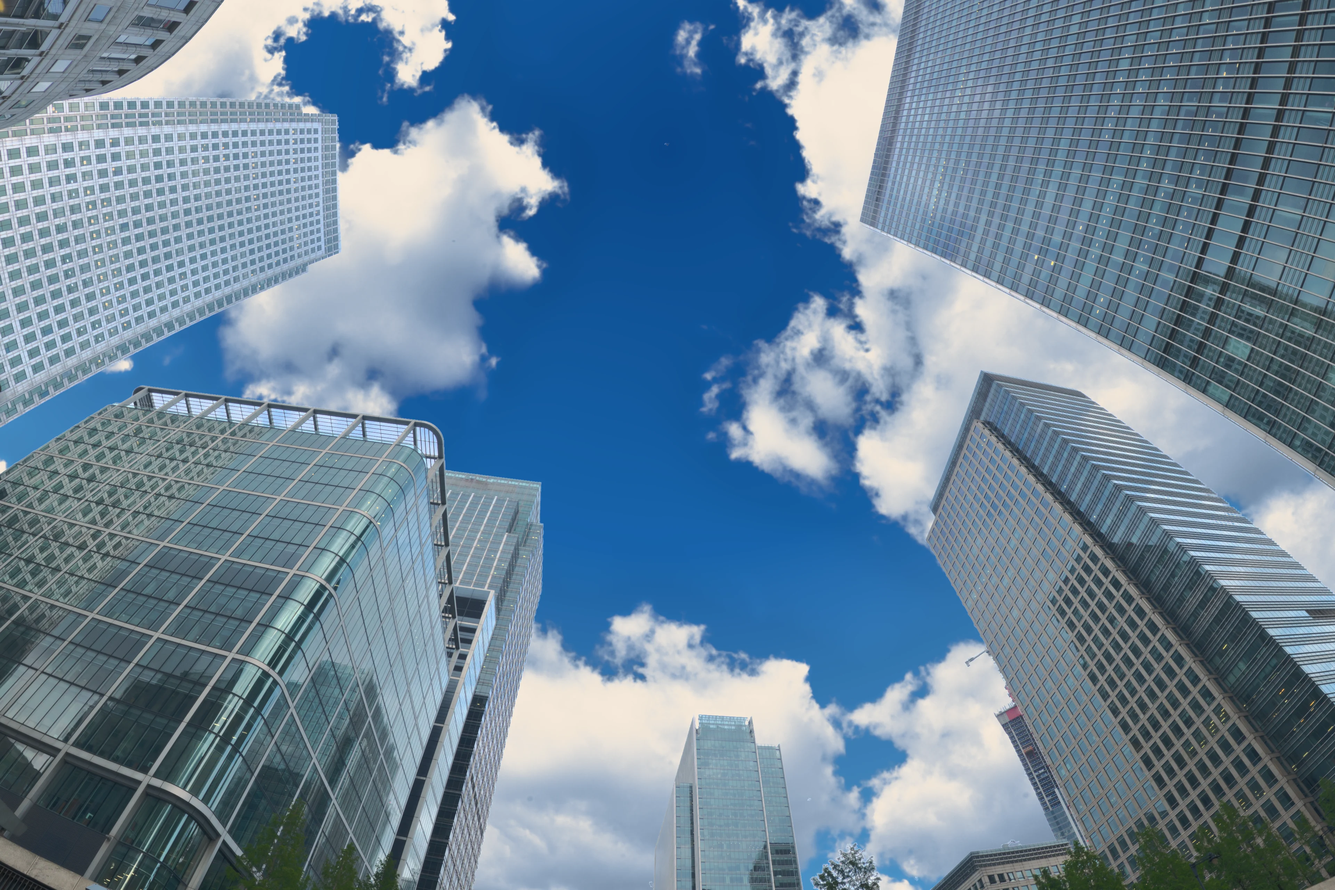
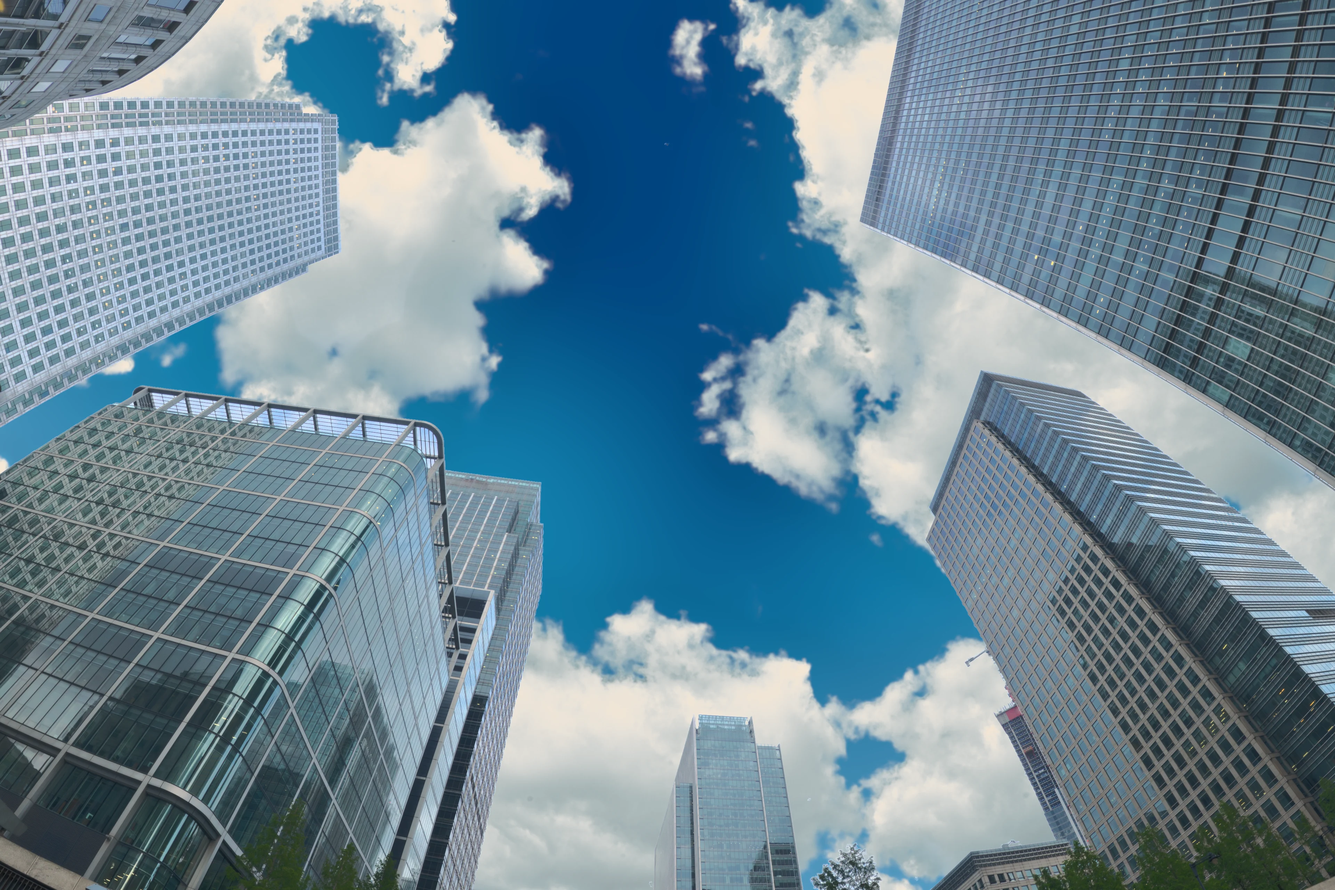
Lab: climb fog round 1
Claude-Session: https://claude.ai/code/session_01RqENhngNCzDFmJWDZueXGV

diff --git a/src/app/lab/fog/fogEngine.js b/src/app/lab/fog/fogEngine.js
@@ -6,8 +6,9 @@ import { createStage, clamp } from "../_kit/stage";
 //
 // The plate is two Poly Haven HDRIs (CC0, both from their 16k captures) rendered
 // at 3840 through the same stereographic rays: the towers from canary_wharf, the
-// sky from docklands_01, graded to a cobalt zenith with cumulus split-toned
-// warm-neutral on the sunlit tops and skylight blue in the folds, unclipped. Depth Anything V2 gives
+// sky from docklands_01: a radial cobalt, pale cyan where it meets the towers,
+// under cumulus unmixed from the capture's own blue and split-toned cyan-grey in
+// the folds to warm-neutral on the sunlit tops, unclipped. Depth Anything V2 gives
 // relative inverse depth, edge-snapped and turned into metres offline (the
 // glass corner ~30 m, the far tower down the street ~380 m); the sky sits at
 // the far end through its matte. tools/depth/bakes/fog/ builds both.
@@ -33,12 +34,22 @@ const PLATE_W = 3840; // plate.webp width; the forward-scatter blur is tuned in 
 const D_MIN = 10;
 const D_MAX = 4000;
 const HS = 500; // haze scale height, metres
-const HS_SKY = 200; // the column the sky is seen through
+const HS_SKY = 140; // the column the sky is seen through
 const V_CLEAR = 50000; // visibility at fog 0, metres
 const V_THICK = 200; // visibility at fog 1
+// The drag moves the transmittance of a 130 m sight line evenly, not log V:
+// air's response to log V is an S that spends half the range on nothing and
+// the last third on everything. Over this frame's distances an even step in
+// that transmittance is an even step in the haze you see, and the first half
+// of the gesture is the far towers turning blue.
+const D_REF = 130;
+const T_CLEAR = Math.exp((-3.912 * D_REF) / V_CLEAR);
+const T_THICK = Math.exp((-3.912 * D_REF) / V_THICK);
+const visibility = (f) => (-3.912 * D_REF) / Math.log(T_CLEAR + (T_THICK - T_CLEAR) * f);
 const K_RGB = [0.82, 1.0, 1.24];
-const REST = 0.92; // arrival: a white-blue field of haze
-const ROLL = 0.5; // it clears to here
+const K_SKY = [1.04, 1.0, 0.98];
+const REST = 0.88; // arrival: a white-blue field of haze (~370 m)
+const ROLL = 0.2; // it clears to here (~2.4 km: the far towers already blue)
 const LEVELS = 6;
 const DRIFT_FPS = 20;
 
@@ -92,7 +103,12 @@ vec3 tauAt(vec2 uv, vec4 aux) {
   // It gathers where the pointer rests.
   vec2 p = (uv - uBreath.xy) * vec2(uAspect, 1.0);
   b *= 1.0 + uBreath.z * exp(-dot(p, p) / 0.06);
-  return b * L * vec3(${K_RGB.map((k) => k.toFixed(2)).join(", ")});
+  // Blue goes first along the street. Over the sky the column is short and
+  // the light it takes away is the cloud's warm-white, which a Rayleigh
+  // spread turns lilac under the blue veil; there the haze is near-grey and
+  // the veil keeps the skylight's cyan.
+  vec3 k = mix(vec3(${K_RGB.map((k) => k.toFixed(2)).join(", ")}), vec3(${K_SKY.map((k) => k.toFixed(2)).join(", ")}), aux.g);
+  return b * L * k;
 }
 `;
 
@@ -286,14 +302,15 @@ void main() {
   // The film's shoulder, per channel.
   c = tone(c);
 
-  // Its top end is warm-neutral: the cumulus tops land near #FFF1E2. The shade
-  // in the clouds leans to skylight blue, hue 210.
+  // Its top end is warm-neutral: the cumulus tops land near #FFF1E2, in clear
+  // air only (veiled, a warm top under blue haze goes lilac). The shade in the
+  // clouds leans to the skylight's cyan-grey, #B7C5C5.
   l = luma(c);
   float hi = smoothstep(0.72, 0.95, l);
-  c = mix(c, l * vec3(1.05, 0.993, 0.931), hi * 0.85 * mix(0.2, 1.0, smoothstep(0.35, 0.85, clear)));
+  c = mix(c, l * vec3(1.05, 0.993, 0.931), hi * 0.85 * smoothstep(0.35, 0.85, clear));
   float sat = max(c.r, max(c.g, c.b)) - min(c.r, min(c.g, c.b));
   float shade = smoothstep(0.5, 0.68, l) * (1.0 - smoothstep(0.78, 0.92, l)) * (1.0 - smoothstep(0.1, 0.3, sat)) * (1.0 - solid);
-  c *= mix(vec3(1.0), vec3(0.95, 0.995, 1.05), shade);
+  c *= mix(vec3(1.0), vec3(0.97, 1.0, 0.99), shade);
 
   // Halation: light through the base bouncing back into the red layer, just
   // outside each highlight edge.
@@ -590,8 +607,11 @@ export async function createFog(host, { embedded = false } = {}) {
   quadDraw(down[0]);
   // Broadest only: the air is lit by the whole sky and which part of it is
   // brighter, never by one cloud. Any finer level prints a blurred copy of the
-  // cumulus into the haze, and the sky behind reads as lens-blurred, not veiled.
-  const air = chain([0, 0, 0, 0, 0.35]);
+  // cumulus into the haze: in thick air that copy is what you see where the
+  // clouds were, soft white blobs, and the sky behind reads as lens-blurred,
+  // not veiled. The veil over the sky is this field alone, so the cumulus
+  // under it lose contrast with their edges as sharp as the plate's.
+  const air = chain([0, 0, 0, 0, 0]);
 
   // The film finish works on the whole frame, so its targets follow the canvas:
   // the scene at full size, and a pyramid from half size for the halation
@@ -629,7 +649,7 @@ export async function createFog(host, { embedded = false } = {}) {
     gl.bindVertexArray(vao);
     gl.disable(gl.BLEND);
     const t = fxTargets();
-    const vis = V_CLEAR * Math.pow(V_THICK / V_CLEAR, fog.x);
+    const vis = visibility(fog.x);
     const dpr = stage.dpr;
     gl.useProgram(P.composite.p);
     bind(0, colorTex);

diff --git a/tools/depth/bakes/fog/bake.py b/tools/depth/bakes/fog/bake.py
@@ -1,9 +1,9 @@
 # Fog, step 2: grade and pack the plate.
 #
 #   plate.webp  the composite in display sRGB: the canary-wharf towers under the
-#               docklands cumulus, the sky graded to the natsu targets (cobalt
-#               zenith, cyan near the towers, cloud tops warm-neutral, folds in
-#               skylight) with a shoulder so nothing reaches 255.
+#               docklands cumulus, the sky graded to the natsu targets (a radial
+#               cobalt, pale where it meets the towers; cloud tops warm-neutral,
+#               folds cyan-grey) with a shoulder so nothing reaches 255.
 #   aux.png     R  log distance in metres, D_MIN..D_MAX (sky = D_MAX)
 #               G  sky matte (white = sky): the source of the air's colour
 #               B  the ray's elevation above the horizon, 0..90 degrees
@@ -60,40 +60,90 @@ if r.shape != (H, W):
 Y = sky @ LUMA
 sb = cv2.GaussianBlur(sky, (0, 0), 1.2 * S)
 blue = (sb[..., 2] - sb[..., 0]) / (sb[..., 2] + 1e-4)
-# cloud cover: low blueness; gaps ~0.69, cloud ~0.06-0.15
-alpha = (1 - smooth(0.2, 0.62, blue)) ** 1.15
-# the clear sky, by elevation: cyan near the towers, cobalt at the zenith
-t = np.clip((elev - 20) / 70, 0, 1)[..., None]
-zen, mid, low = s2l('#0a4688'), s2l('#1764ab'), s2l('#4b93c8')
-gap = np.where(t > 0.45, mid + (zen - mid) * ((t - 0.45) / 0.55), low + (mid - low) * (t / 0.45))
+
+
+def nblur(x, w, sig):
+    """normalised blur of x over the pixels weighted w"""
+    if x.ndim == 3:
+        return cv2.GaussianBlur(x * w[..., None], (0, 0), sig) / (cv2.GaussianBlur(w, (0, 0), sig)[..., None] + 1e-5)
+    return cv2.GaussianBlur(x * w, (0, 0), sig) / (cv2.GaussianBlur(w, (0, 0), sig) + 1e-5)
+
+
+# The capture's own clear sky, filled in under the clouds: its blueness and
+# its light, smooth fields measured on the open gaps only.
+open_ = smooth(0.6, 0.68, blue) ** 2
+bgap = np.maximum(nblur(blue, open_, 40 * S), 0.5)
+Ygap = nblur(Y, open_, 40 * S)
+# Cloud cover from how much of the gap's blueness is gone. A wide, feathered
+# ramp: a cumulus edge thins over many pixels in the capture, and the sky
+# shows through it in proportion, so the cloud is laid back in the same way
+# (no cutout, no rim). The body of a cumulus keeps under ~0.2 of the gap's
+# blueness; its thin shaded margins let some of the sky through.
+bn = blue / bgap
+alpha = 1 - smooth(0.22, 0.97, bn)
+alpha = cv2.GaussianBlur(alpha, (0, 0), 0.9 * S)
+# The cloud's own light, unmixed from the blue behind it: what the capture
+# adds over its gap, per unit of cover. Graded on that, an edge pixel takes
+# the cloud's colour at its strength, not a blue-grey mix of cloud and sky.
+Yadd = np.maximum(Y - Ygap * (1 - alpha), 0)
+Ycl = np.maximum(Yadd / np.maximum(alpha, 0.35), 0.2)
+# Where the cover is thin that estimate is noise over a small number, so the
+# edge takes the light of the cloud just inside it instead (a dark rim
+# otherwise, and the clarity below would ring on it).
+inner = nblur(Ycl, alpha ** 4, 4 * S)
+Ycl = np.maximum(inner + (Ycl - inner) * smooth(0.35, 0.85, alpha), 0.2)
+
+# The clear sky: a radial gradient in the open sky between the towers, pale
+# cyan where it meets them (#2081ac on the print), deepening to cobalt at the
+# middle of the opening (#044984), and paler still low down the street.
+q8 = 8
+ms = cv2.resize(matte, (W // q8, H // q8), interpolation=cv2.INTER_AREA)
+dist = cv2.distanceTransform((ms > 0.5).astype(np.uint8), cv2.DIST_L2, 5).astype(np.float32)
+dist = cv2.GaussianBlur(dist, (0, 0), 18)
+dist = cv2.resize(dist, (W, H), interpolation=cv2.INTER_CUBIC)
+u = np.clip(dist / np.percentile(dist[matte > 0.5], 99.5), 0, 1)
+te = np.clip((elev - 25) / 60, 0, 1)
+t = np.clip(0.75 * u ** 0.8 + 0.4 * te - 0.1, 0, 1)[..., None]
+t = t * t * (3 - 2 * t)
+deep, rim, low = s2l('#00447f'), s2l('#1383b0'), s2l('#5a9fc6')
+gap = rim + (deep - rim) * t
+gap = gap + (low - gap) * smooth(45, 12, elev)[..., None]
 # keep the gaps' own gentle variation
 Yg = cv2.GaussianBlur(Y, (0, 0), 8 * S)  # wide enough to drop the capture's row noise
 Yl = cv2.GaussianBlur(Y, (0, 0), 60 * S)
 gap = gap * np.clip(Yg / (Yl + 1e-4), 0.7, 1.3)[..., None] ** 0.35
-# cumulus: the capture's own luminance, every fold kept. A gentle global
-# power (the cloud field spans ~2.5 stops, 0.9..5.2) plus a little local
-# contrast so the interiors model instead of filling flat; exposed so the
-# body of the cloud sits bright and the shoulder below rolls the tops off.
-lY = np.log(np.maximum(Y, 1e-3))
+
+# cumulus: the cloud's own light, every fold kept. A soft global power (the
+# field spans ~2.5 stops) so the body sits bright, and the modelling comes
+# back as local contrast at three scales, so the interiors carry their folds
+# instead of filling to one cream.
+lY = np.log(Ycl)
 lB = cv2.GaussianBlur(lY, (0, 0), 90 * S)
-# The capture is soft overhead (its zenith is stitched), so the folds get a
-# clarity pass on the log luminance at two scales, lightly denoised first so
-# the sensor noise in the gaps is not what gets sharpened.
-lS = cv2.GaussianBlur(lY, (0, 0), 0.8 * S)
-d1 = lS - cv2.GaussianBlur(lS, (0, 0), 4 * S)
-d2 = lS - cv2.GaussianBlur(lS, (0, 0), 16 * S)
-Yc = 0.34 * np.exp(0.8 * lY + 0.3 * (lY - lB) + 0.7 * d1 + 0.35 * d2)
+# The capture is soft overhead (its zenith is stitched): a clarity pass on the
+# log luminance, lightly denoised first so it is not the sensor noise that
+# gets sharpened.
+lS = cv2.GaussianBlur(lY, (0, 0), 0.7 * S)
+d0 = lS - cv2.GaussianBlur(lS, (0, 0), 1.8 * S)
+d1 = lS - cv2.GaussianBlur(lS, (0, 0), 6 * S)
+d2 = lS - cv2.GaussianBlur(lS, (0, 0), 24 * S)
+lm = np.median(lY[(alpha > 0.9) & (matte > 0.5)])
+Yc = 0.58 * np.exp(0.42 * (lY - lm) + 0.25 * (lY - lB) + 0.4 * d0 + 0.55 * d1 + 0.4 * d2)
+if os.environ.get('FOG_STATS'):
+    cm = (alpha > 0.9) & (matte > 0.5)
+    print('Yc cloud pct', np.percentile(Yc[cm], [1, 5, 10, 25, 50, 75, 90, 99]).round(3))
 # split grade on the cloud's own light: the sunlit tops roll off warm-neutral
-# (#FFF3E4), the folds facing away are lit by the sky, so they go its blue
-# (hue ~210), through a near-neutral middle.
-lit = smooth(0.3, 1.0, Yc)[..., None]
-tl = s2l('#fff3e4')
-tm = s2l('#eef0f2')
-ts = s2l('#a9c4e3')
-tint = np.where(lit < 0.5, ts + (tm - ts) * (lit / 0.5), tm + (tl - tm) * ((lit - 0.5) / 0.5))
+# toward #FFF1E2, the middle a quiet grey (#dfe1de), and the folds facing away
+# take the skylight: a cyan-grey (#b7c5c5), never the lilac a blue tint lands
+# on over cobalt.
+stops = [(0.45, s2l('#b5c5c6')), (0.66, s2l('#dfe1de')), (0.98, s2l('#fff0de'))]
+tint = np.stack([np.interp(Yc, [y for y, _ in stops], [c[k] for _, c in stops]) for k in range(3)], -1).astype(np.float32)
 tint = tint / (tint @ LUMA)[..., None]
 cloud = Yc[..., None] * tint
-skyg = gap * (1 - alpha[..., None]) + cloud * alpha[..., None]
+# What shows through a thin margin of cloud is not the cobalt of the open gap
+# but sky light already scattered once inside it: paler and greener. Laid
+# under the cloud by its cover, the shaded margins land cyan-grey.
+behind = gap + (s2l('#6a9fb4') - gap) * smooth(0.05, 0.7, alpha)[..., None]
+skyg = behind * (1 - alpha[..., None]) + cloud * alpha[..., None]
 
 # ---------------------------------------------------------------- the towers
 Yb = city @ LUMA
